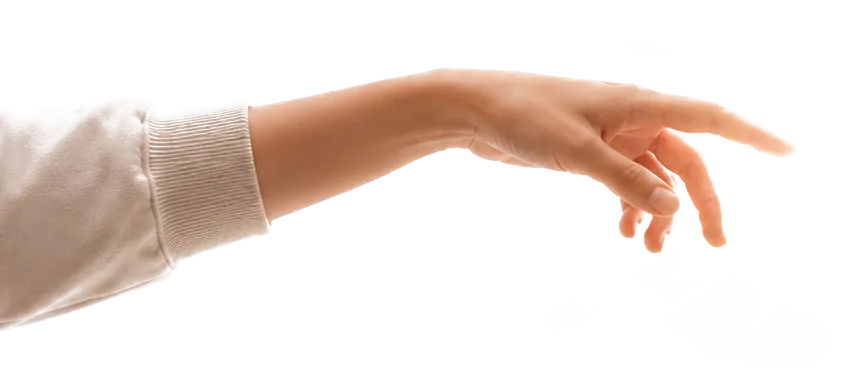
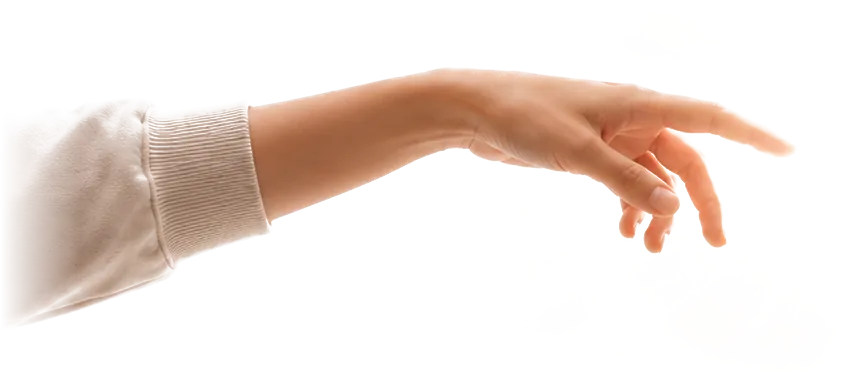
Put the headline above the hands, and use the photograph's own halo
Two things she was right about.

The halo was drawn in CSS and every attempt at it came out a blob -- a
saturated coral cloud with none of the thin warm ring the photograph has.
It is now lifted straight out of the photograph instead. The page is the
same white the picture was shot on, so the crop needs no edge treatment
and the result at rest is the original image reassembled.

The hands are painted out of that halo rather than cut out of it: a hole
would have read as a ghost hand the moment the real ones slid away, and
white on a white page is nothing at all. The halo also leaves well before
the hands do, so there is no glow left to read those gaps against.

The badge is gone and the headline is first on the page, with the hands
reaching across a band beneath it. They were sitting on top of the line
people are supposed to read.

Outer edges of the arms are feathered now too. The container is narrower
than a wide screen, and the hard crop edge showed as an arm sliced off in
mid-air.

Changed region(s): [[0.0, 0.3184, 0.0907, 0.8684]]

diff --git a/app/globals.css b/app/globals.css
@@ -168,7 +168,7 @@ button:disabled {
      touch. Anchoring the meeting point rather than the top edge keeps the
      hands landing in the same place while the box itself grows with the
      viewport. */
-  --hero-hands-meet: 150px;
+  --hero-hands-meet: 296px;
 
   /* How far the reader scrolls to pull the hands fully apart. */
   --hero-hands-travel: 420px;
@@ -179,7 +179,7 @@ button:disabled {
   top: var(--hero-hands-meet);
   translate: 0 -50%;
   margin-inline: auto;
-  max-width: 1500px;
+  max-width: 1280px;
   aspect-ratio: 1672 / 941;
   /* The hands begin outside this box; clipping here is what makes them arrive
      from off-screen without ever widening the page. */
@@ -257,31 +257,15 @@ button:disabled {
   opacity: 0.62;
 }
 
-/* The halo the photograph came with was keyed away along with the background,
-   and is rebuilt here so it can carry the brand coral.
-
-   On a white page a glow cannot be brighter than the ground, so it is not
-   painted as light: it multiplies a warm coral into the paper, clear at the
-   centre and strongest a little way out. That is the shape the halo had in
-   the photograph anyway -- a ring, not a blob. */
+/* The halo, positioned by its real coordinates in the 1672x941 frame so it
+   lands exactly where it sat in the photograph -- concentric with the point
+   the fingertips meet. */
 .hero-hands__glow {
   position: absolute;
-  left: 50%;
-  top: 50%;
-  width: 34%;
-  aspect-ratio: 1;
-  translate: -50% -50%;
-  border-radius: 50%;
-  background: radial-gradient(
-    circle,
-    rgb(255 255 255 / 0) 0%,
-    rgb(255 214 198 / 0.34) 26%,
-    rgb(255 163 138 / 0.46) 44%,
-    rgb(255 140 116 / 0.18) 60%,
-    transparent 76%
-  );
-  mix-blend-mode: multiply;
-  filter: blur(10px);
+  left: 30.38%;
+  top: 14.67%;
+  width: 39.47%;
+  height: auto;
 }
 
 /* Both branches below drive the same three keyframes. The only difference is
@@ -309,14 +293,19 @@ button:disabled {
   }
 }
 
+/* The halo leaves well before the hands do. The hands were painted out of
+   it, and those gaps only read as ghosts while there is still glow around
+   them to read against -- so there is none by the time the hands have gone
+   far enough to expose anything. */
 @keyframes hero-glow-part {
-  from {
+  0% {
     opacity: 1;
     scale: 1;
   }
-  to {
+  45%,
+  100% {
     opacity: 0;
-    scale: 1.5;
+    scale: 1.12;
   }
 }
 

diff --git a/app/page.tsx b/app/page.tsx
@@ -78,19 +78,17 @@ export default async function Home({
         )}
 
         {/* HERO. Centred, with search as the primary action — the thing
-            someone actually came to do. An illustration sat here before and
-            was decoration standing in for function. */}
-        <section className="mx-auto max-w-3xl pt-8 text-center sm:pt-14">
-          <span className="inline-flex items-center gap-2 rounded-full border border-card-border px-4 py-1.5 text-sm text-muted">
-            <span className="h-1.5 w-1.5 rounded-full bg-brand" />
-            فرصتها از زاویهای تازه
-          </span>
+            someone actually came to do.
 
-          <h1 className="mt-6 text-4xl font-bold leading-[1.25] tracking-tight sm:text-5xl">
+            The headline sits above the hands and is the first thing on the
+            page. The gap under it is not spare room: it is the band the hands
+            reach across, which is why the paragraph starts so far down. */}
+        <section className="mx-auto max-w-3xl pt-8 text-center sm:pt-14">
+          <h1 className="text-4xl font-bold leading-[1.25] tracking-tight sm:text-5xl">
             سؤال شغلیات را از کسی بپرس که همان کار را میکنه.
           </h1>
 
-          <p className="mx-auto mt-5 max-w-xl text-lg leading-8 text-muted">
+          <p className="mx-auto mt-44 max-w-xl text-lg leading-8 text-muted sm:mt-52">
             میخوای وارد یک حوزه بشی، مسیرت را عوض کنی، برای مهاجرت کاری آماده
             بشی یا بدونی یک شغل واقعاً چه شکلیه؟ با کارشناسی حرف بزن که همین حالا
             سرِ همان کاره.

diff --git a/components/HeroHands.tsx b/components/HeroHands.tsx
@@ -31,7 +31,20 @@ export default function HeroHands() {
       aria-hidden
       className={`hero-hands${entering ? " hero-hands--entering" : ""}`}
     >
-      <span className="hero-hands__glow" />
+      {/* The halo, lifted straight out of the photograph rather than
+          approximated in CSS -- every attempt at drawing it came out a blob.
+          The hands are painted out of it so they cannot appear twice, and the
+          page is the same white the photograph was shot on, so the crop has
+          no edge to hide. */}
+      <Image
+        src="/hero-halo.webp"
+        alt=""
+        width={660}
+        height={660}
+        loading="eager"
+        unoptimized
+        className="hero-hands__glow"
+      />
 
       {/* Two halves of one photograph, keyed off its white background and put
           back in their original places in the frame.
